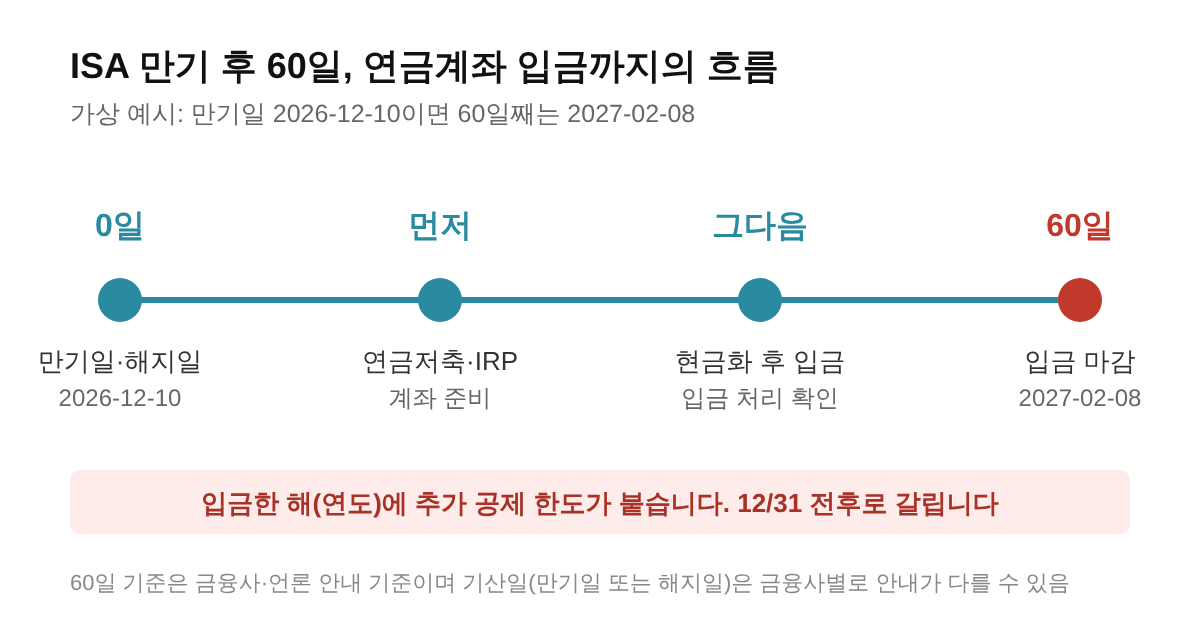
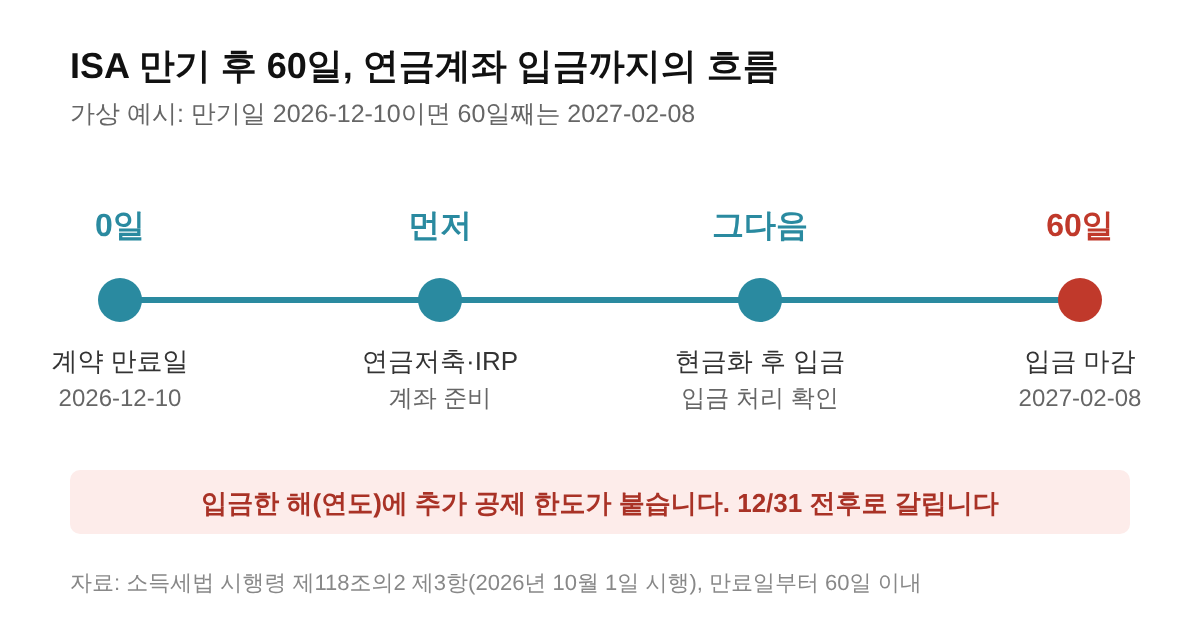
151편 자료 반영: 60일 기산일=계약기간 만료일(소득세법 시행령 제118조의2③) 확정, gate_pass:true, 연도 걸친 납입 한도 추가, 그림1 갱신
Claude-Session: https://claude.ai/code/session_01TDvA8ryNz9WPVNnjpAzoLV

Changed region(s): [[0.0617, 0.875, 0.8942, 0.9375], [0.0308, 0.5312, 0.185, 0.5938]]

diff --git a/stock_drafts/isa-maturity-pension-transfer-options.md b/stock_drafts/isa-maturity-pension-transfer-options.md
@@ -12,29 +12,17 @@ serp_check: |
   → 탈락조건 1~3 모두 미해당.
 unique_asset: |
   (a) 만기 후 선택지 3가지(인출·재가입·연금계좌 이전) 비교표와 만기 정산 세금 계산(순소득 700만원: 일반형 49.5만원, 서민형 29.7만원).
-  (b) 60일 일정 그림과 만기일 2026-12-10 가상 예시(60일째 2027-02-08), 입금 연도(12/31 전후)에 따른 공제 연도 차이.
+  (b) 시행령 원문 기준 60일 일정 그림과 만기일 2026-12-10 가상 예시(60일째 2027-02-08), 입금 연도(12/31 전후)에 따른 공제 연도 차이.
   (c) 3,000만원 이전 시 소득 구간별 환급 합계 그림(16.5% 구간 198.0만원, 13.2% 구간 158.4만원).
 primary_source: |
   재사용 검증값: ISA 비과세 한도(일반형 200만원, 서민형·농어민형 400만원)·초과분 9.9% 분리과세는 3편 검증값(조세특례제한법 제91조의18, 2026-09-04 화면 확인). 연금계좌 세액공제 한도 900만원·공제율 15%/12%(지방소득세 포함 16.5%/13.2%)·소득 기준 4,500만원(총급여 5,500만원)·ISA 만기 전환 10%·300만원은 8편·75편 검증값 재사용(국세청 안내 캡처 기준일 2026-09). 기타소득세 16.5%는 70편 검증값.
-  새로 확인한 것은 "만기(해지) 후 60일 이내 입금" 조건 하나뿐이며, 한국경제(2026-07)·머니투데이(2026-06) 등 언론과 증권사 안내가 60일로 일치하나 법령 원문은 열지 못함(WebFetch hankyung.com getaddrinfo ENOTFOUND). 기산일이 만기일인지 해지일인지 안내마다 달라 gate_pass:false.
+  60일 조건: 소득세법 시행령 제118조의2 제3항(시행 2026-10-01, 대통령령 제36737호, 2026-09-30 일부개정, 사용자 제공 원문 2026-10-19 대조) "계약기간이 만료된 날부터 60일 이내". 연도 걸친 납입 한도는 같은 시행령 제40조의2 제2항 제1호 나목. 언론(한국경제 2026-07, 머니투데이 2026-06)은 보조 확인용.
 기준일: 2026년 10월 기준
 refresh_due: 2026-12-10
 tags: ISA만기, ISA만기자금, ISA연금계좌이전, 연금저축, IRP, 세액공제, ISA비과세, 연말정산, 절세계좌, 개인종합자산관리계좌
-gate_pass: false
+gate_pass: true
 gate_pass_note: |
-  게이트1·2·3 충족. 60일 기한의 기산일(만기일 vs 해지일) 안내가 엇갈려 법령 원문 확인 전에는 보류. 사용자 할 일은 아래 user_todo 참고. 확인되면 본문 해당 문장 1곳과 그림1 하단 문구만 고치고 gate_pass:true로 바꾼다.
-user_todo:
-  why: ISA 만기자금을 연금계좌로 옮기는 60일이 만기일부터인지 해지일부터인지 언론마다 달라서 법령 원문으로 못 박지 못했습니다
-  steps:
-    - "국가법령정보센터 소득세법 시행령 열기: https://www.law.go.kr/법령/소득세법시행령 → 화면 위 '조문' 검색창에 '개인종합자산관리계좌'를 입력하고 검색"
-    - "검색된 조문 중 '계약기간 만료일' 또는 '해지'와 '60일'이 같이 나오는 항목을 눌러 해당 문단이 보이게 화면 캡처"
-    - "캡처를 대화에 올리고 'N편 자료'라고 적기(N은 이 글 번호 151)"
-  must_show:
-    - "60일의 기산일이 '계약기간 만료일'인지 '해지일'인지 적힌 문장"
-    - "조문 번호와 시행일"
-  minutes: 5
-  device: PC 권장
-  if_skipped: "안 하면 이 글은 발행 대기로 남습니다. 대안으로 본문의 기산일 문장을 '금융사 안내 기준으로 만기(또는 해지)일부터 60일'로 두고 그대로 발행할 수도 있습니다"
+  [2026-10-19] 사용자가 올린 소득세법 시행령 원문(시행 2026-10-01, 대통령령 제36737호)으로 게이트4 해소. 제118조의2 제3항이 "개인종합자산관리계좌의 계약기간이 만료된 날부터 60일 이내"에 잔액 전부 또는 일부를 연금계좌로 납입한 경우를 전환으로 정의한다. 기산일은 계약기간 만료일이다.
 figure_plan: |
   2장. 그림1은 60일 일정 타임라인(시간 순서), 그림2는 소득 구간별 환급 막대(크기 비교). 보여 주는 정보가 다르다. 만기 후 선택지 표와 만기 정산 세금 표는 숫자를 읽어야 해서 표로 둠.
 self_check: |
@@ -45,12 +33,12 @@ self_check: |
   글 구조 유형: 절차형(본문 주 골격이 ol 단계, 단계마다 짧은 H3). 첫 H2의 첫 블록은 번호 목록(ol).
   어투 모드: B 대화형(해요체, 독자에게 묻는 문장 3개). 꾸며낸 1인칭 경험 없음. 섹션마다 20자 이하 짧은 문장 포함.
   AI 티 점검: em대시 0개, 다만 0회, mark 밀도 4개, FAQ 4개, H2 5개 중 "~나요"형 1개. 박스 청록(#eef7f9/#2a8aa0), 제목 "⏱ 만기 전에 챙길 숫자".
-  기관 링크: 안내 문장·출처 목록 전부 링크 처리. 내부 링크 6개(3·8·67·70·71·75편), 모두 published.
+  게이트4: 2026-10-19 시행령 원문 대조 후 gate_pass:true. 기관 링크: 안내 문장·출처 목록 전부 링크 처리. 내부 링크 6개(3·8·67·70·71·75편), 모두 published.
 ---
 
 <p style="font-size:13px;color:#888;">최종 검토일: 2026-10-16</p>
 
-<p>ISA 만기가 다가오면 먼저 60일이라는 숫자부터 챙겨야 해요. 만기자금을 연금저축이나 IRP로 60일 안에 옮기면 옮긴 금액의 10%, 최대 300만원이 그해 세액공제 한도에 더해집니다.</p>
+<p>ISA 만기가 다가오면 먼저 60일이라는 숫자부터 챙겨야 해요. 만기자금을 계약기간 만료일부터 60일 안에 연금저축이나 IRP로 옮기면 옮긴 금액의 10%, 최대 300만원이 그해 세액공제 한도에 더해집니다.</p>
 
 <div style="background:#eef7f9;border:2px solid #2a8aa0;border-radius:10px;padding:16px 20px;margin:24px 0;">
   <strong style="color:#1d6173;font-size:18px;">⏱ 만기 전에 챙길 숫자</strong>
@@ -103,9 +91,11 @@ self_check: |
 
 <h2 id="sec-2" style="scroll-margin-top:72px;border-left:6px solid #2a8aa0;padding-left:12px;margin-top:36px;">연금계좌로 옮기는 60일 순서</h2>
 
-<p>연금계좌 이전은 만기(또는 해지) 뒤 60일 안에 입금을 끝내는 일정 싸움입니다. 보도와 증권사 안내는 같은 60일을 말하지만 기산일은 만기일이라는 설명과 해지일이라는 설명이 섞여 있어요.</p>
+<p>연금계좌 이전은 계약기간 만료일부터 60일 안에 입금을 끝내는 일정 싸움입니다. <a href="https://www.law.go.kr" target="_blank" rel="noopener">소득세법 시행령</a> 제118조의2 제3항이 "ISA 계약기간이 만료된 날부터 60일 이내에 잔액의 전부 또는 일부를 연금계좌로 납입한 경우"를 전환으로 정의합니다.</p>
 
-<figure style="margin:24px 0;"><img src="https://raw.githubusercontent.com/leoleo0813/blog-automation/main/assets/figures/isa-maturity-pension-transfer-options-1.png" alt="ISA 만기일 2026년 12월 10일부터 60일째인 2027년 2월 8일까지 연금계좌 입금 흐름 타임라인" style="max-width:100%;"><figcaption style="font-size:13px;color:#888;">자료: 한국경제 2026년 7월·머니투데이 2026년 6월 보도 기준 60일, 날짜는 가상 예시</figcaption></figure>
+<p>만료 전에 해지하고 옮기는 경우의 기산일은 이 조문에 따로 나오지 않아요. 해지 후 이전은 거래 금융사의 안내를 따르는 쪽이 안전합니다.</p>
+
+<figure style="margin:24px 0;"><img src="https://raw.githubusercontent.com/leoleo0813/blog-automation/main/assets/figures/isa-maturity-pension-transfer-options-1.png" alt="ISA 만기일 2026년 12월 10일부터 60일째인 2027년 2월 8일까지 연금계좌 입금 흐름 타임라인" style="max-width:100%;"><figcaption style="font-size:13px;color:#888;">자료: 소득세법 시행령 제118조의2 제3항(2026년 10월 1일 시행), 날짜는 가상 예시</figcaption></figure>
 
 <h3>1단계. 연금저축·IRP 계좌를 먼저 열어 두기</h3>
 
@@ -113,7 +103,7 @@ self_check: |
 
 <h3>2단계. ISA 만기 처리와 현금화</h3>
 
-<p>해지하거나 만기 처리해 현금으로 만든 뒤 입금한다는 안내가 많습니다. 보유 종목이 있다면 팔아 현금으로 바꾸는 날짜를 일정에 넣어야 하죠.</p>
+<p>만료일 기준 잔액이 전환 가능 금액의 기준이 됩니다. 금융사 안내에 따라 보유 종목을 현금으로 바꿔 입금해야 할 수 있으니 그 날짜를 일정에 넣어 두세요.</p>
 
 <h3>3단계. 연금계좌로 입금</h3>
 
@@ -150,6 +140,7 @@ self_check: |
 <ul>
   <li>12월 31일 전에 입금: 그해 연말정산(이듬해 2월)에서 공제를 받습니다.</li>
   <li>1월 1일 이후 입금: 새해 납입분으로 잡혀 다음 해 연말정산에서 공제를 받습니다.</li>
+  <li>두 해에 나눠 입금: 둘째 해 한도는 만료일 잔액에서 앞해에 넣은 금액을 뺀 값입니다(시행령 제40조의2 제2항).</li>
 </ul>
 
 <p>올해 이미 900만원 한도를 다 채웠다면 올해 입금분의 추가 한도가 더 알차게 쓰이고, 아직 한도가 남았다면 연도를 나눠 쓰는 쪽이 낫다는 계산도 가능해요. 올해 남은 한도는 <a href="https://sensitiveboss3.tistory.com/entry/pension-savings-tax-credit" target="_blank" rel="noopener">세액공제 한도 글</a>의 남은 공제 여지 표로 따져 보세요.</p>
@@ -179,13 +170,14 @@ self_check: |
 <h2 style="border-left:6px solid #2a8aa0;padding-left:12px;margin-top:36px;">만기 직전에 많이 묻는 것들</h2>
 
 <details style="margin:10px 0;"><summary style="cursor:pointer;font-weight:bold;">ISA 만기 때 그냥 찾으면 세금이 붙나요?</summary><p>비과세 한도(일반형 200만원, 서민형·농어민형 400만원) 안이면 붙지 않고, 넘는 순소득에만 9.9% 분리과세가 붙습니다.</p></details>
-<details style="margin:10px 0;"><summary style="cursor:pointer;font-weight:bold;">60일이 지나면 어떻게 되나요?</summary><p>추가 공제 한도는 받지 못하고 일반 납입으로 처리된다는 안내가 많습니다. 일반 납입은 기본 한도 900만원 안에서만 공제돼요.</p></details>
+<details style="margin:10px 0;"><summary style="cursor:pointer;font-weight:bold;">60일이 지나면 어떻게 되나요?</summary><p>시행령이 60일 이내 납입분만 전환금액으로 정의하므로 그 뒤 입금은 추가 한도 대상이 되지 않습니다. 일반 납입으로 보아 기본 한도 900만원 안에서만 공제돼요.</p></details>
 <details style="margin:10px 0;"><summary style="cursor:pointer;font-weight:bold;">연금저축과 IRP 중 어디로 옮기나요?</summary><p>둘 다 가능하다고 안내됩니다. IRP는 인출 조건이 더 엄격하니 <a href="https://sensitiveboss3.tistory.com/entry/irp-isa-account-difference" target="_blank" rel="noopener">IRP ISA 차이 글</a>의 비교표를 같이 보세요.</p></details>
 <details style="margin:10px 0;"><summary style="cursor:pointer;font-weight:bold;">옮긴 돈을 중간에 빼면 어떻게 되나요?</summary><p>공제받은 금액과 운용수익에 기타소득세 16.5%가 붙는 것이 원칙입니다. 부득이한 사유는 저율 과세가 적용되기도 해요.</p></details>
 
 <div style="border-top:1px solid #ddd;margin-top:32px;padding-top:12px;font-size:13px;color:#888;">
   참고 출처 (기준일 2026년 10월):
   <ul style="margin:6px 0 0 0;padding-left:20px;">
+    <li><a href="https://www.law.go.kr" target="_blank" rel="noopener">국가법령정보센터 - 소득세법 시행령 제118조의2, 제40조의2</a></li>
     <li><a href="https://www.nts.go.kr" target="_blank" rel="noopener">국세청 - 연금계좌 세액공제 안내</a></li>
     <li><a href="https://taxlaw.nts.go.kr" target="_blank" rel="noopener">국세법령정보시스템 - 조세특례제한법 제91조의18(ISA)</a></li>
     <li><a href="https://www.fsc.go.kr/po020201/27339" target="_blank" rel="noopener">금융위원회 - ISA 주요정책문답</a></li>
@@ -238,7 +230,7 @@ self_check: |
       "name": "60일이 지나면 어떻게 되나요?",
       "acceptedAnswer": {
         "@type": "Answer",
-        "text": "추가 공제 한도는 받지 못하고 일반 납입으로 처리된다는 안내가 많습니다. 일반 납입은 기본 한도 900만원 안에서만 공제돼요."
+        "text": "시행령이 60일 이내 납입분만 전환금액으로 정의하므로 그 뒤 입금은 추가 한도 대상이 되지 않습니다. 일반 납입으로 보아 기본 한도 900만원 안에서만 공제돼요."
       }
     },
     {

diff --git a/사용자_할일.md b/사용자_할일.md
@@ -1,6 +1,6 @@
 # 사용자 할 일
 
-마지막 갱신: 2026-10-18 · 보류 6편 · 예상 합계 약 43분
+마지막 갱신: 2026-10-19 · 보류 5편 · 예상 합계 약 38분
 
 **보내는 법(공통):** 캡처한 사진을 Claude 대화창에 올리고 "N편 자료"라고만 적어 주세요.
 사진을 받으면 본문을 고치고 보류를 풀어 드립니다. 위에서부터(검색량 큰 순) 하면 효과가 큽니다.
@@ -103,26 +103,6 @@
 **안 하면:** 계속 발행 보류입니다. 세금 칸을 빼고 "세금은 상품 설명서 기준"으로만 적어 발행하는 방법도 있으니 원하시면 말씀해 주세요.
 
 보낼 때: "131편 자료"
-
----
-
-## [ ] 151편 · ISA 만기 후 선택지와 연금계좌 이전 계산
-월 검색량 1,020 · 약 5분 · PC 권장
-
-**왜 막혔나:** ISA 만기자금을 연금계좌로 옮기는 60일이 만기일부터인지 해지일부터인지 언론마다 달라서 법령 원문으로 못 박지 못했습니다
-
-**할 일**
-1. 국가법령정보센터 소득세법 시행령 열기: https://www.law.go.kr/법령/소득세법시행령 → 화면 위 '조문' 검색창에 '개인종합자산관리계좌'를 입력하고 검색
-2. 검색된 조문 중 '계약기간 만료일' 또는 '해지'와 '60일'이 같이 나오는 항목을 눌러 해당 문단이 보이게 화면 캡처
-3. 캡처를 대화에 올리고 'N편 자료'라고 적기(N은 이 글 번호 151)
-
-**캡처에 꼭 보여야 할 것**
-- 60일의 기산일이 '계약기간 만료일'인지 '해지일'인지 적힌 문장
-- 조문 번호와 시행일
-
-**안 하면:** 안 하면 이 글은 발행 대기로 남습니다. 대안으로 본문의 기산일 문장을 '금융사 안내 기준으로 만기(또는 해지)일부터 60일'로 두고 그대로 발행할 수도 있습니다
-
-보낼 때: "151편 자료"
 
 ---
 

diff --git a/sources/isa-maturity-decree-118-2.md b/sources/isa-maturity-decree-118-2.md
@@ -1,0 +1,6 @@
+# 소득세법 시행령 제118조의2 제3항 · 제40조의2 제2항 제1호 나목 발췌
+
+- 출처: 소득세법 시행령 [시행 2026. 10. 1.] [대통령령 제36737호, 2026. 9. 30., 일부개정] 전문(사용자가 2026-10-19 제공한 .doc)
+- 제118조의2 ③: "법 제59조의3제3항에서 '대통령령으로 정하는 방법으로 연금계좌로 납입한 경우'란 개인종합자산관리계좌의 계약기간이 만료된 날부터 60일 이내에 해당 계좌 잔액의 전부 또는 일부를 연금계좌로 납입한 경우를 말한다."
+- 제40조의2 ②1호 나목: 전환금액은 ISA 계약기간 만료일 기준 잔액을 한도로 하고, 직전 과세기간과 해당 과세기간에 걸쳐 납입한 경우 만료일 기준 잔액에서 직전 과세기간 납입액을 차감한 금액을 한도로 한다.
+- 용도: isa-maturity-pension-transfer-options 초안의 60일 기산일(계약기간 만료일) 확정.
